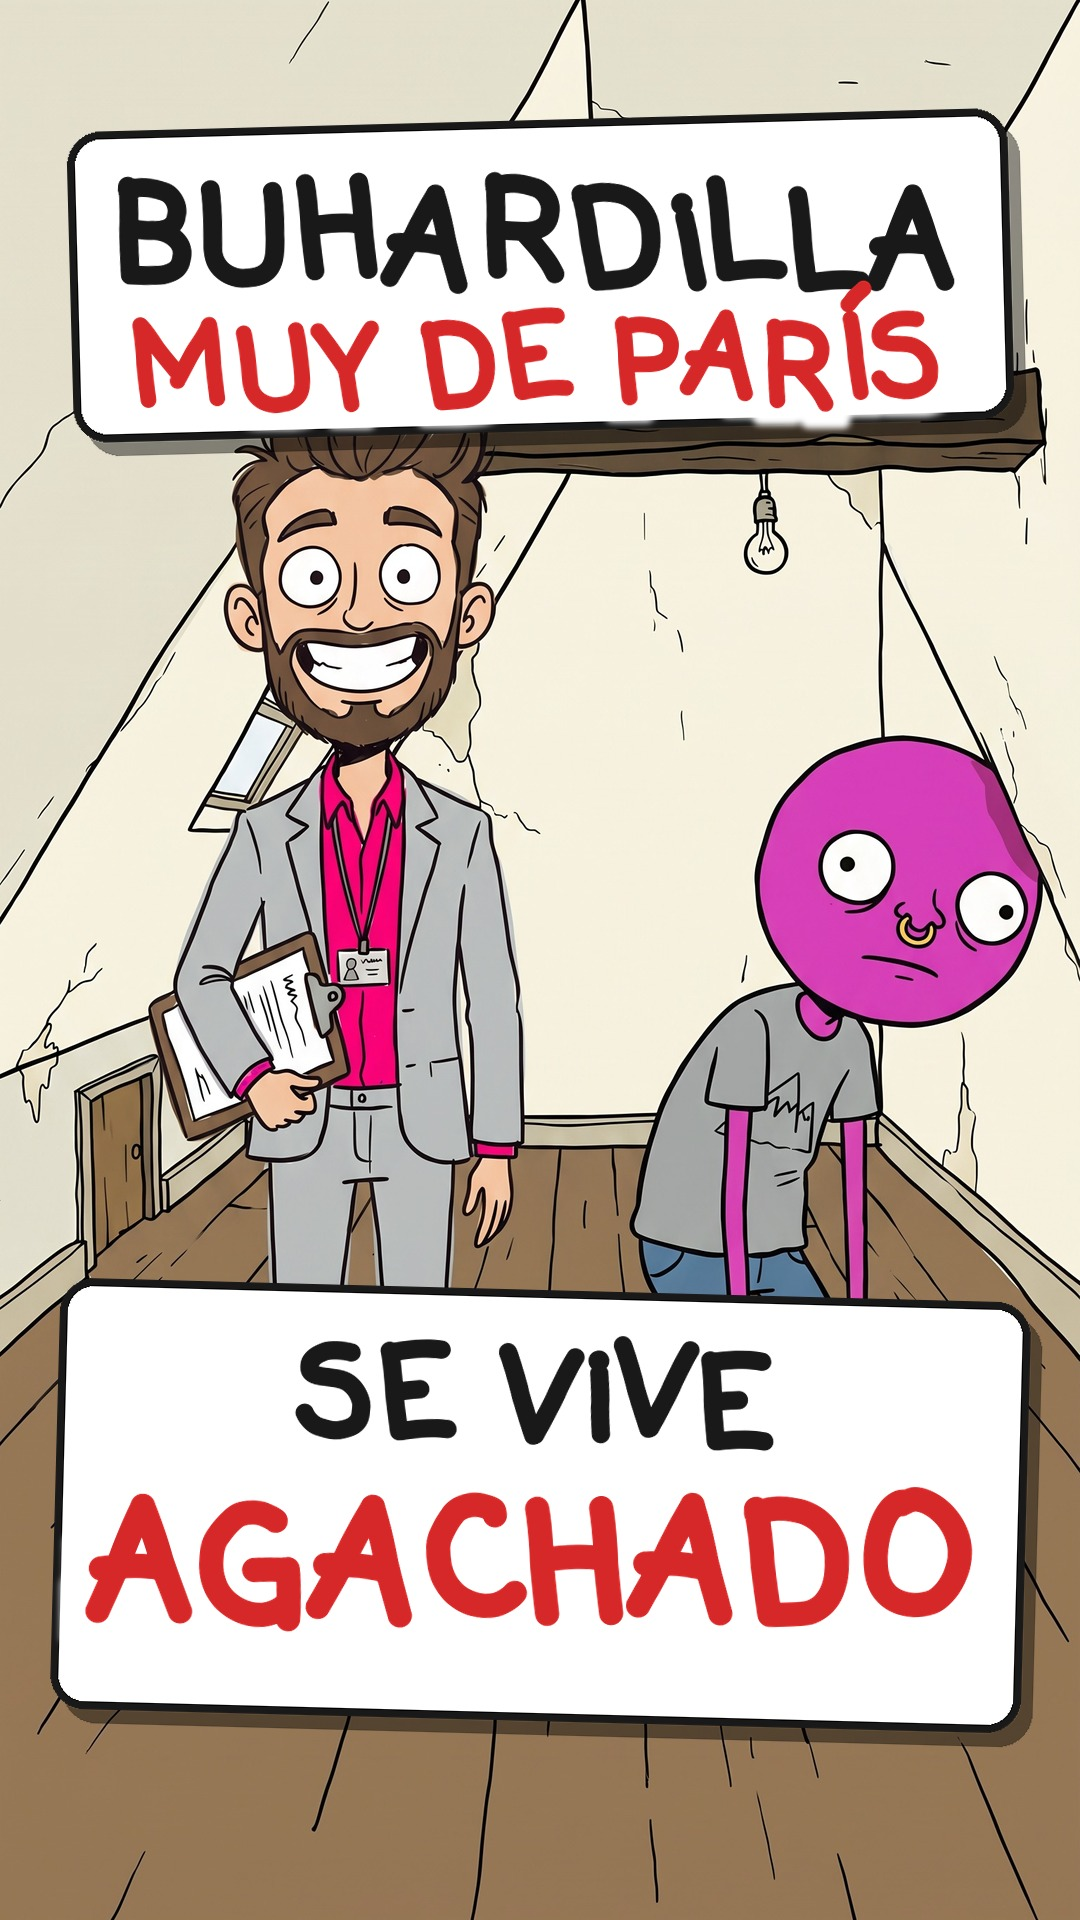
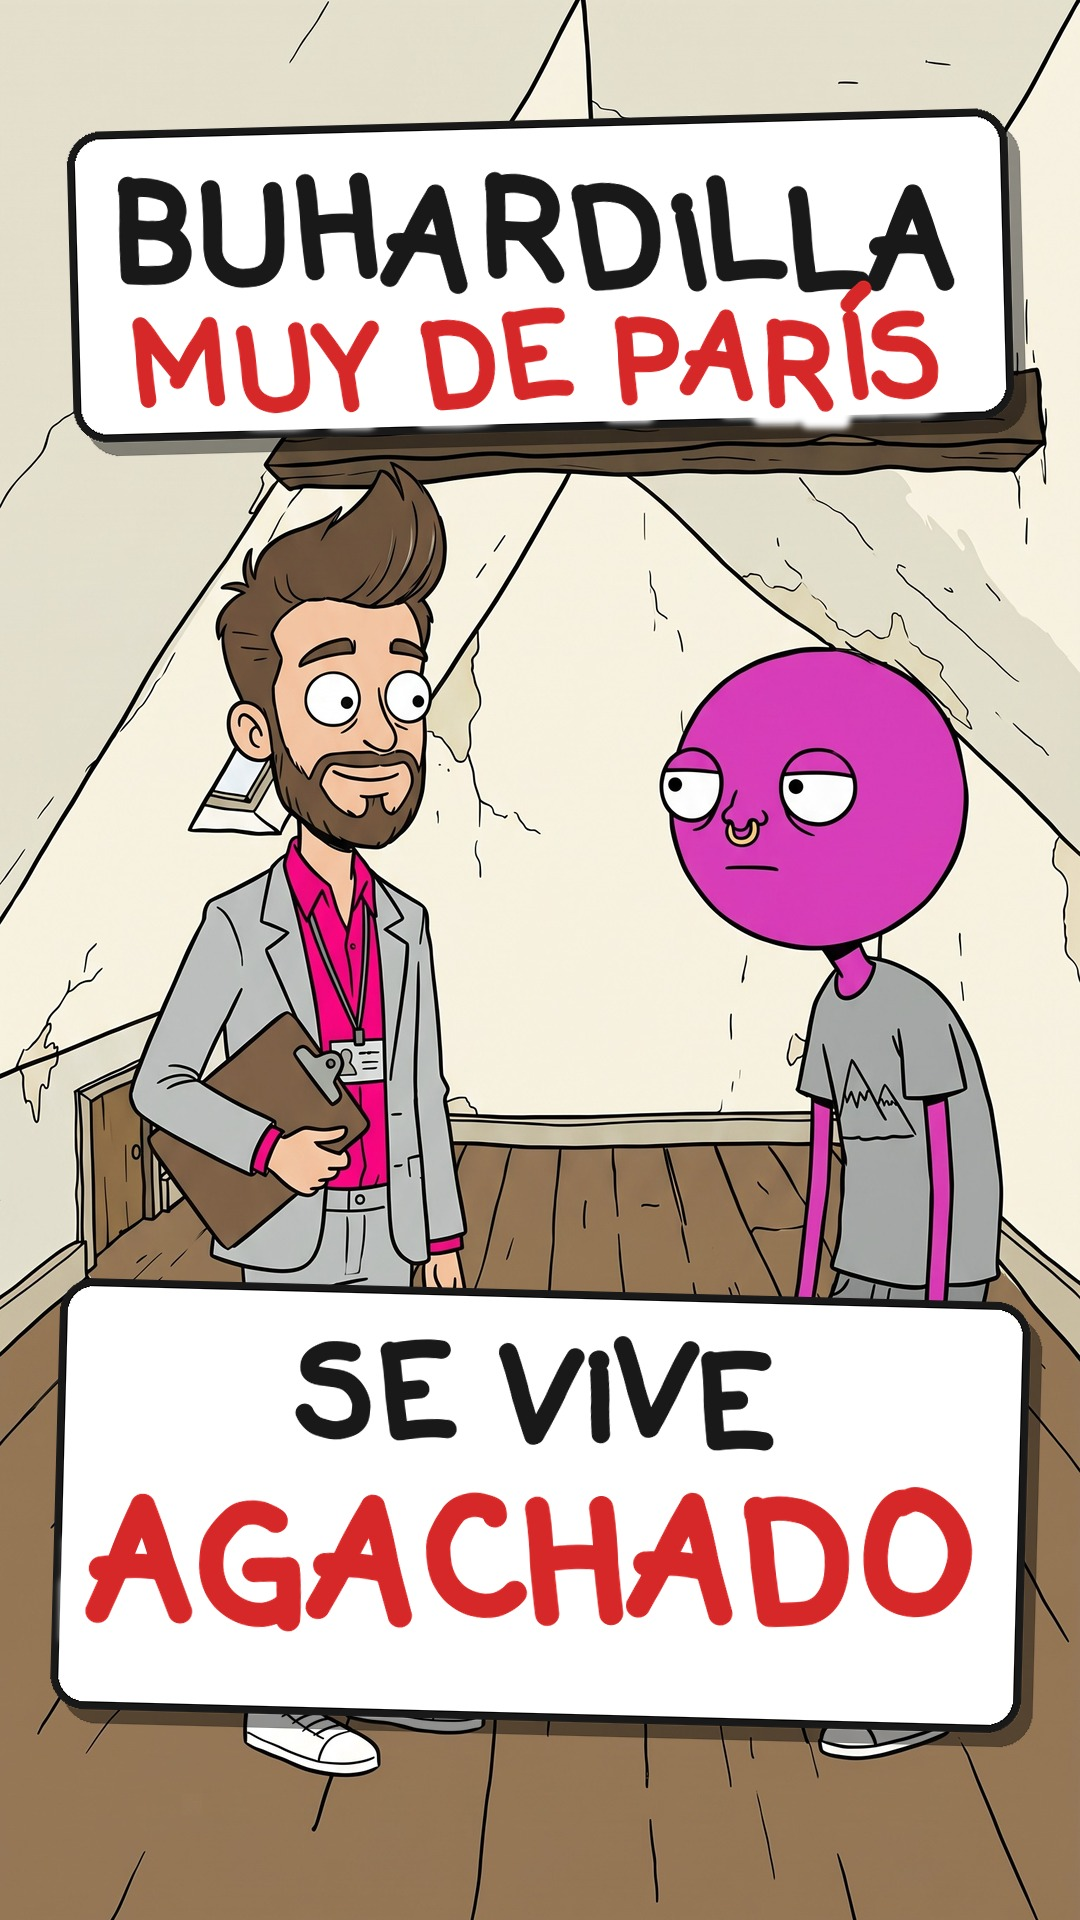
Skill sketch-dialogo reescrita con todo lo aprendido; portada de la buhardilla con el plano fijo
Claude-Session: https://claude.ai/code/session_01W1d2B3tJHY5s1jRup8PdJX

diff --git a/herramientas/video/buhardilla/portada.py b/herramientas/video/buhardilla/portada.py
@@ -4,7 +4,7 @@ import sys, os
 sys.path.insert(0, os.path.join(os.path.dirname(os.path.abspath(__file__)), '..', '..', 'shorts', 'portadas'))
 import portadas as P
 from PIL import Image, ImageDraw, ImageFilter
-im = Image.open('img/es_fijo.jpg').convert('RGB')
+im = Image.open('img/es_charla.jpg').convert('RGB')
 im = im.resize((1080, round(im.height * 1080 / im.width)), Image.LANCZOS)
 y0 = (im.height - 1920) // 2
 im = im.crop((0, y0, 1080, y0 + 1920)).convert('RGBA')

diff --git a/.claude/skills/sketch-dialogo/SKILL.md b/.claude/skills/sketch-dialogo/SKILL.md
@@ -1,82 +1,85 @@
 ---
 name: sketch-dialogo
-description: Hacer sketches verticales (9:16) de DIÁLOGO entre dos personajes de Alejandro (p. ej. Chico rosa + el agente inmobiliario), al estilo del vídeo de referencia del pasillo-habitación: un plano fijo de los dos casi todo el rato, primeros planos de reacción y clips de gag animados. Úsala cuando Alejandro pida un vídeo con dos personajes hablando, un sketch o una conversación. Es un formato DISTINTO del narrador a cámara (video-inventario) y de los shorts derivados (shorts-verticales).
+description: Hacer sketches verticales (9:16) de DIÁLOGO entre dos personajes de Alejandro (p. ej. Chico rosa + el agente inmobiliario), al estilo del vídeo de referencia del pasillo-habitación: un plano fijo de los dos mirándose casi todo el rato, con animación limitada por capas, primeros planos de reacción y clips de gag animados. Úsala cuando Alejandro pida un vídeo con dos personajes hablando, un sketch o una conversación. Es un formato DISTINTO del narrador a cámara (video-inventario) y de los shorts derivados (shorts-verticales).
 ---
 
 # Sketch de diálogo entre dos personajes
 
-Formato pedido por Alejandro tras ver un sketch de referencia (agente inmobiliario enseñando un pasillo como
-«habitación», 49 s). Ejemplo completo nuestro: `herramientas/video/buhardilla/` («La buhardilla», Chico rosa +
-agente). Personajes con repertorio y voz: chico rosa (Aaron Abad), agente (`public/personajes/agente/`, Rafa),
-nutri, Alejandro (Daniel - Podcast).
+Formato pedido por Alejandro tras ver un sketch de referencia (un agente inmobiliario enseña un pasillo como
+«habitación», 49 s, vídeo generativo). Ejemplo terminado y aprobado: `herramientas/video/buhardilla/` («La buhardilla»,
+Chico rosa + agente, 47 s, versión 7; las versiones viejas del plan están como `plan_v2…v5.py`).
+Personajes con repertorio y voz: chico rosa (Aaron Abad `t9LRTh3y1ioN00e9wsNh`), agente (`public/personajes/agente/`,
+Rafa `Zb72NBThGN2Rv3y1RSTT`), nutri, Alejandro (Daniel - Podcast). Si falta el otro personaje, se crea completo antes
+(como el agente: posturas, inventario, caras; ~210 imágenes).
 
-## Cómo está montada la referencia (copiar esto)
-- **Empieza ya en el sitio**: primera frase «Pues esta es la habitación». Nada de entradas, puertas ni
-  presentaciones que haya que entender (con «Pasa, pasa» + puerta + él a gatas no se entendía nada).
-- **UN PLANO FIJO de los dos ~70 % del vídeo**: de cuerpo entero, mismo tamaño, **GIRADOS EL UNO HACIA EL OTRO**
-  (tres cuartos, el que enseña dirigiéndose al otro; mirando al frente «no es natural, no se entiende»), en el decorado donde el chiste SE VE (la cama en mitad del pasillo; aquí: él doblado con la cabeza
-  contra el techo). Dentro del plano solo cambian el gesto (brazo que señala, mano abierta…) y las bocas.
-- **Primeros planos de reacción** del que se queja (cara de hartazgo), 2 veces en el vídeo, en la frase clave.
-- **Clips de gag ANIMADOS**, 2-4 por vídeo, ~3 s, en la frase que los cuenta (Puerta del Sol con turistas y un
-  sofá = «el salón es Madrid»; cocina llena de gente = «compartida entre nueve»). En la referencia son vídeo: aquí se
-  recrean con 2-3 dibujos que se ALTERNAN (`alterna` cada 0,35-0,5 s: la gente se mueve, cae el agua, sale vapor).
-- Subtítulos en MAYÚSCULAS, 2-3 palabras, arriba, un color por personaje (amarillo uno, el otro distinto).
-- Ritmo: pocos cortes (unos 8 en 49 s). Un dibujo nuevo por frase NO se entiende (lección de la buhardilla v1).
+## Lo que funciona (copiado de la referencia y de 7 revisiones de Alejandro)
+1. **Empieza ya en el sitio**: «Pues este es el piso». Nada de entradas ni puertas que haya que entender («Pasa,
+   pasa» + ruido de puerta + él a gatas «no pasa a ningún sitio, no se entiende»).
+2. **UN PLANO FIJO de los dos ~70 % del vídeo**, del que solo se sale para la reacción y los gags. Un dibujo nuevo por
+   frase NO se entiende (v1: 21 cortes en 66 s, el agente diminuto en un plano y gigante en el siguiente).
+3. En ese plano, **los dos GIRADOS EL UNO HACIA EL OTRO** (tres cuartos, el que enseña dirigiéndose al otro), de
+   cuerpo entero y del mismo tamaño, en el decorado donde el chiste SE VE (él doblado bajo el techo). Mirando al frente
+   «no es natural, no se entiende».
+4. **Animación limitada**: dibujos quietos = «animación casi nula». Cada personaje tiene capas de gesto que se pegan
+   sobre el plano fijo por separado (ver abajo). Pero **un gesto por frase, con sentido**: gestos al azar «gesticulan
+   demasiado, movimientos sin sentido». El que ESCUCHA, QUIETO (solo parpadea; como mucho una reacción con motivo,
+   p. ej. brazos cruzados tras «esto es un trastero»).
+5. **Primer plano de reacción** del que se queja (cara de hartazgo, mirando hacia el otro), 2 veces, en la frase clave.
+6. **Clips de gag ANIMADOS**, 2-4 por vídeo, ~3 s, en la frase que los cuenta (ducha sentado, cocina de rodillas,
+   amigos apiñados, escalera llena de interesados). Se recrean con 2 dibujos que se alternan cada ~0,4 s (`alterna`:
+   cae el agua, sale vapor, la gente se mueve) y un cambio en el remate («spa» = toalla y pepinos).
+7. **Voces con ritmo de conversación**: pausas cortas (`--hueco 0.16`); si uno habla lento, `--tempo QUIEN=1.15`
+   (sin cambiar el tono). **Las preguntas tienen que sonar a pregunta**: `--preguntas 4` (ver Voz).
+8. **Subtítulos** en MAYÚSCULAS, 2-3 palabras, arriba, un color por personaje (agente amarillo [255,226,40], chico
+   rosa [255,100,205]), que se van al acabar la frase (`cola` 0,2). Sin rótulos (tapan el subtítulo).
+9. Remate final con imagen y ~2,4 s de cola (la escalera con 20 interesados agachados y murmullo).
 
 ## Pasos
-1. **Guion**: líneas «QUIEN: texto», ~45-55 s, empezando ya en situación; cada pregunta del que se queja + respuesta
-   absurda del otro; remate final con imagen (la escalera llena de interesados agachados). Visto bueno de Alejandro.
-2. **Voz**: `herramientas/video/dialogo.py guion.txt voz/x` (voces en `VOCES`; cada frase con la anterior y la
-   siguiente de contexto; `--rehacer N`). El json lleva `quien` por palabra.
-3. **Dibujos (Magnific, 9:16)**: decorado vacío (`loc_*`) → PLANO FIJO de los dos sobre él (2 versiones) → cada gesto
-   EDITANDO ese plano fijo («Keep EVERYTHING exactly the same… Change ONLY the agent's arms…») → primer plano del que
-   reacciona (mismo decorado) → clips de gag (dibujo + 1-2 ediciones «a moment later…» para alternar) → bocas: una
-   edición por personaje y dibujo («_rboca» rosa, «_aboca» el otro). Un gesto con la cabeza igual reutiliza la boca
-   del plano fijo. ~25-30 imágenes (≈1.800 créditos) si el personaje ya existe.
-4. **Preparar**: `preparar.py` (copia de buhardilla): mezcla solo lo que cambia en cada gesto y recorta las bocas.
-5. **Plan** (`plan.py`): `"hablan": {"ROSA": {dibujo: [boca]}, "AGENTE": {...}}` (solo se abre la boca del que
-   habla), `cambios` en la palabra del gesto, `alterna` en los gags, `subtitulos` con `colores`, `max` 3,
-   `mayusculas`, `tam` ~90, `contorno` 14. Casi sin rótulos (tapan el subtítulo); como mucho la cifra del chiste.
-6. **Montar** con `herramientas/shorts/montar_vertical.py`, efectos suaves (`efectos.py`; sin música), revisar con
-   hoja de 2 fps ENTERA antes de entregar, y portada con carteles (`portada.py`).
+1. **Guion** `guion.txt`: líneas «QUIEN: texto», 45-50 s, en situación desde la primera frase; preguntas del que se
+   queja + respuestas absurdas del otro; remate con imagen. Visto bueno de Alejandro antes de gastar.
+2. **Voz**: `python3 herramientas/video/dialogo.py guion.txt voz/x --hueco 0.16 --tempo AGENTE=1.15 --preguntas 4`.
+   Cada frase con la anterior y la siguiente de contexto; guarda cada frase en `voz/x_frases/NN` (`--rehacer N` para
+   una). El json lleva `quien` por palabra y `frases` con su inicio. Comprobar con `voz.py comprobar voz/x.mp3`: debe
+   decir el texto exacto y escribir «¿…?» en las preguntas (si sale «Porque tengo…» sin interrogación, no suena a
+   pregunta: rehacerla). `tono.py <mp3>` da la subida final en semitonos (≤ 0 afirmación, ≥ +3 pregunta clara).
+3. **Dibujos (Magnific Nano Banana 2.1, 9:16)**, con la referencia de cada personaje:
+   - decorado vacío (`loc_*`, 2 versiones) → **plano fijo** de los dos mirándose sobre él (2 versiones, elegir);
+   - **gestos editando el plano fijo, sin mover la cabeza**: «Keep EVERYTHING exactly the same (room, the boy…, the
+     agent's head and face in exactly the same place). Change ONLY the estate agent's free arm: …». Uno por cada
+     frase que lo pida (presenta el piso, señala el techo, mano al pecho, dedo arriba, «no, no, no», señala abajo,
+     brazos abiertos, la casita, el reloj; el chico: palmas arriba, señala el techo, brazos cruzados) + un PARPADEO de
+     cada uno («Change ONLY the eyes…: closed for a blink») + los gestos que cambian la cabeza (chichón) con su boca;
+   - bocas del plano fijo: una edición por personaje («Change ONLY the mouth of the bearded man…: open, talking…»);
+   - primer plano del que reacciona en el mismo decorado (+ su boca);
+   - clips de gag: dibujo con los dos dentro + 1 edición «a moment later…» para alternar (+ boca si habla alguien).
+   - Coste real de la buhardilla v7: ~45 imágenes (≈3.000 créditos) sin contar el personaje nuevo.
+4. **Capas**: `capas.py` (copiar de buhardilla y ajustar `BASE`): cada edición `cv_*` → RGBA de un solo personaje
+   con solo lo que cambia. Reglas que salieron de los fallos:
+   - la zona de cada personaje llega hasta donde empieza el otro (un margen alrededor de su cabeza le cortaba la mano);
+   - al agente se le protege la cara con un ÓVALO ajustado (un rectángulo le cortaba el hombro al levantar el brazo);
+     al chico NO (su brazo pegado a la cabeza quedaba cortado; si la cabeza no cambió, no entra en la capa igualmente);
+   - descartar ediciones que giran el cuerpo entero (el metro) y revisar TODAS las capas a tamaño real pegadas sobre
+     el plano fijo (hoja de recortes por personaje) antes de montar.
+   Los gags y primeros planos se preparan con `preparar.py` (variantes que solo copian lo que cambia + bocas).
+5. **Plan** `plan.py` (copiar de buhardilla): TODOS los tiempos salen de la voz (`L[i]` inicio de la frase i,
+   `T(palabra, n)`), también los efectos (`efectos.json`), así que si se rehace la voz todo se recoloca solo.
+   - `charla(t0, gestos)`: el plano fijo con `vivas` (solo `parpadeo` de cada uno; listas `habla`/`escucha` VACÍAS),
+     `hablan` (la boca del que habla va encima de todo) y `gestos` [G(t0, t1, QUIEN, capa, boca)] — UN gesto por
+     frase, desde su inicio hasta la frase siguiente; un gesto concreto no congela más de ~2 s (la casita solo en
+     «mini loft», luego otro).
+   - `gag(base, t0, otro, hasta)` y `esc('es_pprosa', …)` para los cortes; cortes y gestos 0,08 s antes de su palabra.
+   - `subtitulos`: `{'y': 250, 'tam': 92, 'max': 3, 'contorno': 14, 'mayusculas': True, 'cola': 0.2, 'colores': …}`.
+6. **Montar**: `python3 herramientas/shorts/montar_vertical.py plan.json salida.mp4` (antes `--frames …` en momentos
+   clave), efectos suaves sin música (`herramientas/video/efectos.py`: whoosh en los cortes a gag, golpe, ding, agua,
+   sartén, tictac, murmullo). **Revisar el vídeo ENTERO** con hojas a 3-4 fps y recortes ampliados (brazos cortados,
+   manchas junto a hombros, subtítulos que pisan el plano siguiente, quién gesticula mientras escucha) antes de entregar.
+7. **Portada** con carteles (`portada.py`: plano fijo de los dos + carteles blancos con borde negro, sombra y un poco
+   girados; título arriba, remate en rojo abajo).
 
-## ANIMACIÓN LIMITADA en el plano fijo (imprescindible: con dibujos quietos «la animación es casi nula»)
-En la referencia (vídeo generativo) se mueven todo el rato. Con dibujos fijos se consigue así
-(`herramientas/video/buhardilla/capas.py` + `vivas` en `montar_vertical.py`):
-- Del plano fijo se piden ~5 gestos por personaje SIN mover la cabeza («Keep … the agent's head and face in exactly
-  the same place. Change ONLY the agent's free arm: …»): hablando (explica con la mano, dedo arriba, mano al pecho,
-  señala al otro), escuchando (mira la carpeta), un parpadeo de cada uno, y los gestos de las palabras clave.
-- `capas.py` convierte cada edición en una CAPA de un solo personaje (RGBA: solo lo que cambia, en su lado, sin su
-  cabeza) → se pueden combinar libremente: el agente gesticula mientras el chico cruza los brazos.
-- En el plan, `vivas` = {QUIEN: {habla: [capas], escucha: [capas o None], parpadeo, cada_habla ~0,8, cada_escucha
-  ~2}} y `gestos` [{t0, t1, quien, img, boca}] para el gesto concreto en su palabra (con su propia boca si la cabeza
-  cambia, p. ej. el chichón). La boca del que habla va encima de todo.
-- Revisar cada capa pegada sobre el plano fijo (hoja de comprobación): si una mano queda cortada, ensanchar el lado
-  de ese personaje; si la edición giró el cuerpo entero (el metro), descartarla.
-- Coste: ~22 ediciones (≈1.400 créditos) para un plano fijo bien animado.
-
-## Lecciones de la revisión de «La buhardilla» v4 → v5
-- El que ESCUCHA casi quieto: solo parpadea y como mucho un cambio cada 4-5 s (`escucha` con muchos None,
-  `cada_escucha` 4,5). Si cambia de brazos cada 2 s «gesticula demasiado mientras el otro habla».
-- Ritmo de conversación: el agente hablaba lento → `dialogo.py --tempo AGENTE=1.15 --hueco 0.16` (acelera sin cambiar
-  el tono; comprobar con `voz.py comprobar`). 54 s → 45,5 s.
-- El plan saca TODOS los tiempos de la voz (`L[i]` = inicio de cada frase, `T(palabra, n)`) y escribe también
-  `efectos.json`: si se rehace la voz, todo se recoloca solo.
-- Subtítulo que se queda sobre el plano siguiente: `"cola": 0.2` (lo que dura tras su última palabra).
-- La zona que protege la cabeza en las capas, un ÓVALO ajustado a la cara: un rectángulo le cortaba el hombro al
-  levantar el brazo (muesca junto a la barba).
-- Un gesto concreto no debe congelar al personaje más de ~2 s (la casita: solo en «mini loft»).
-
-## Lecciones de la revisión v5 → v6 («el brazo se corta, gesticulan demasiado, movimientos sin sentido»)
-- NADA de gestos al azar (`vivas` con listas `habla`/`escucha` vacías, solo `parpadeo`). Coreografía escrita a mano
-  en `gestos`: UN gesto por frase elegido para lo que dice (pregunta = palmas arriba; «techos» = señala el techo;
-  «el encanto» = mano al pecho; «650 al mes» = dedo arriba; «mini loft» = la casita…), mantenido toda la frase.
-  El que escucha, quieto; como mucho una reacción con sentido (brazos cruzados tras «esto es un trastero»).
-- Recortar las capas sin cortar brazos: la zona de cada personaje llega hasta donde empieza el otro (no un margen
-  alrededor de su cabeza), y NO proteger la cabeza del chico (su brazo pegado a la cabeza quedaba cortado; si la
-  edición no cambió la cabeza, no entra en la capa de todas formas). Al agente sí: óvalo de la cara.
-- Revisar cada capa a tamaño real sobre el plano fijo antes de montar (hoja de recortes por personaje).
-- PREGUNTAS que no suenan a pregunta (la voz de ElevenLabs a veces las dice planas o bajando): `dialogo.py
-  --preguntas 4` genera 4 tomas de cada frase con «?» y se queda la que más sube al final (`herramientas/video/
-  tono.py` mide la subida en semitonos; planas/afirmación ≤ 0, pregunta clara ≥ +3). Comprobación extra: con
-  `voz.py comprobar` el transcriptor escribe «¿…?» si suena a pregunta.
+## Herramientas de este formato
+- `herramientas/video/dialogo.py` (voces de diálogo: `--hueco`, `--tempo`, `--preguntas`, `--rehacer`).
+- `herramientas/video/tono.py` (subida de tono al final de una frase).
+- `herramientas/shorts/montar_vertical.py`: `hablan` (boca solo del que habla), `vivas` y `gestos` (capas por
+  personaje), `alterna`, subtítulos con `colores`/`max`/`mayusculas`/`contorno`/`cola`.
+- Descargas de Magnific sin gastar contexto: `creations_get` con 40+ ids (rellenar con ids viejos) para que la
+  respuesta vaya a fichero y leerla con `herramientas/dl_magnific.py` (con 28 aún salía en línea).
